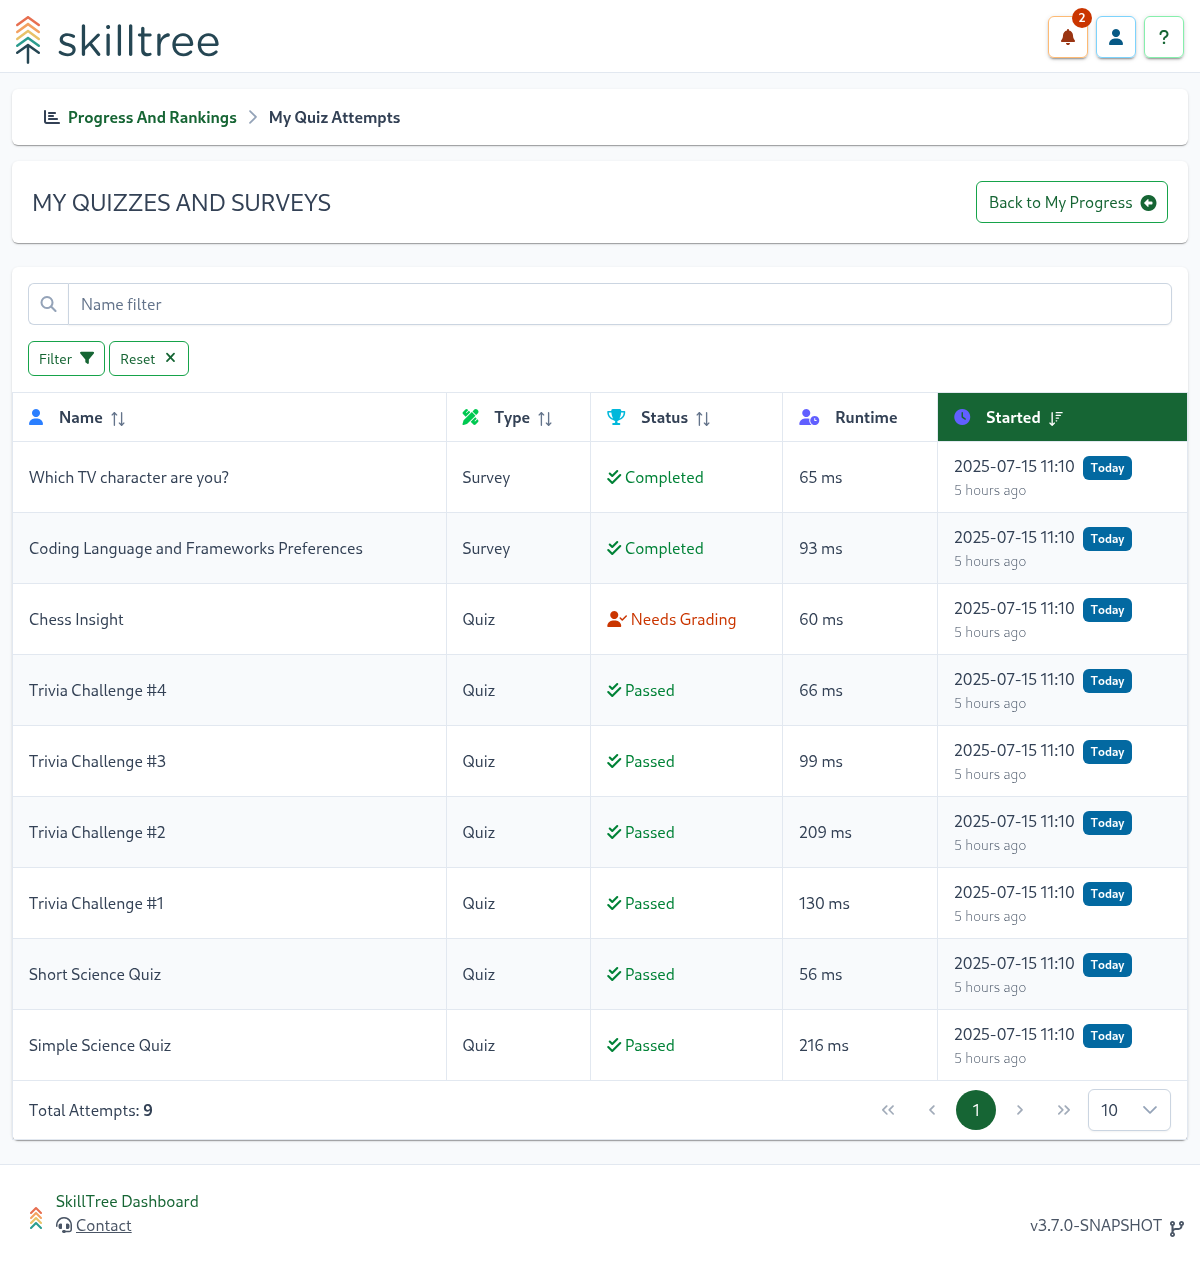
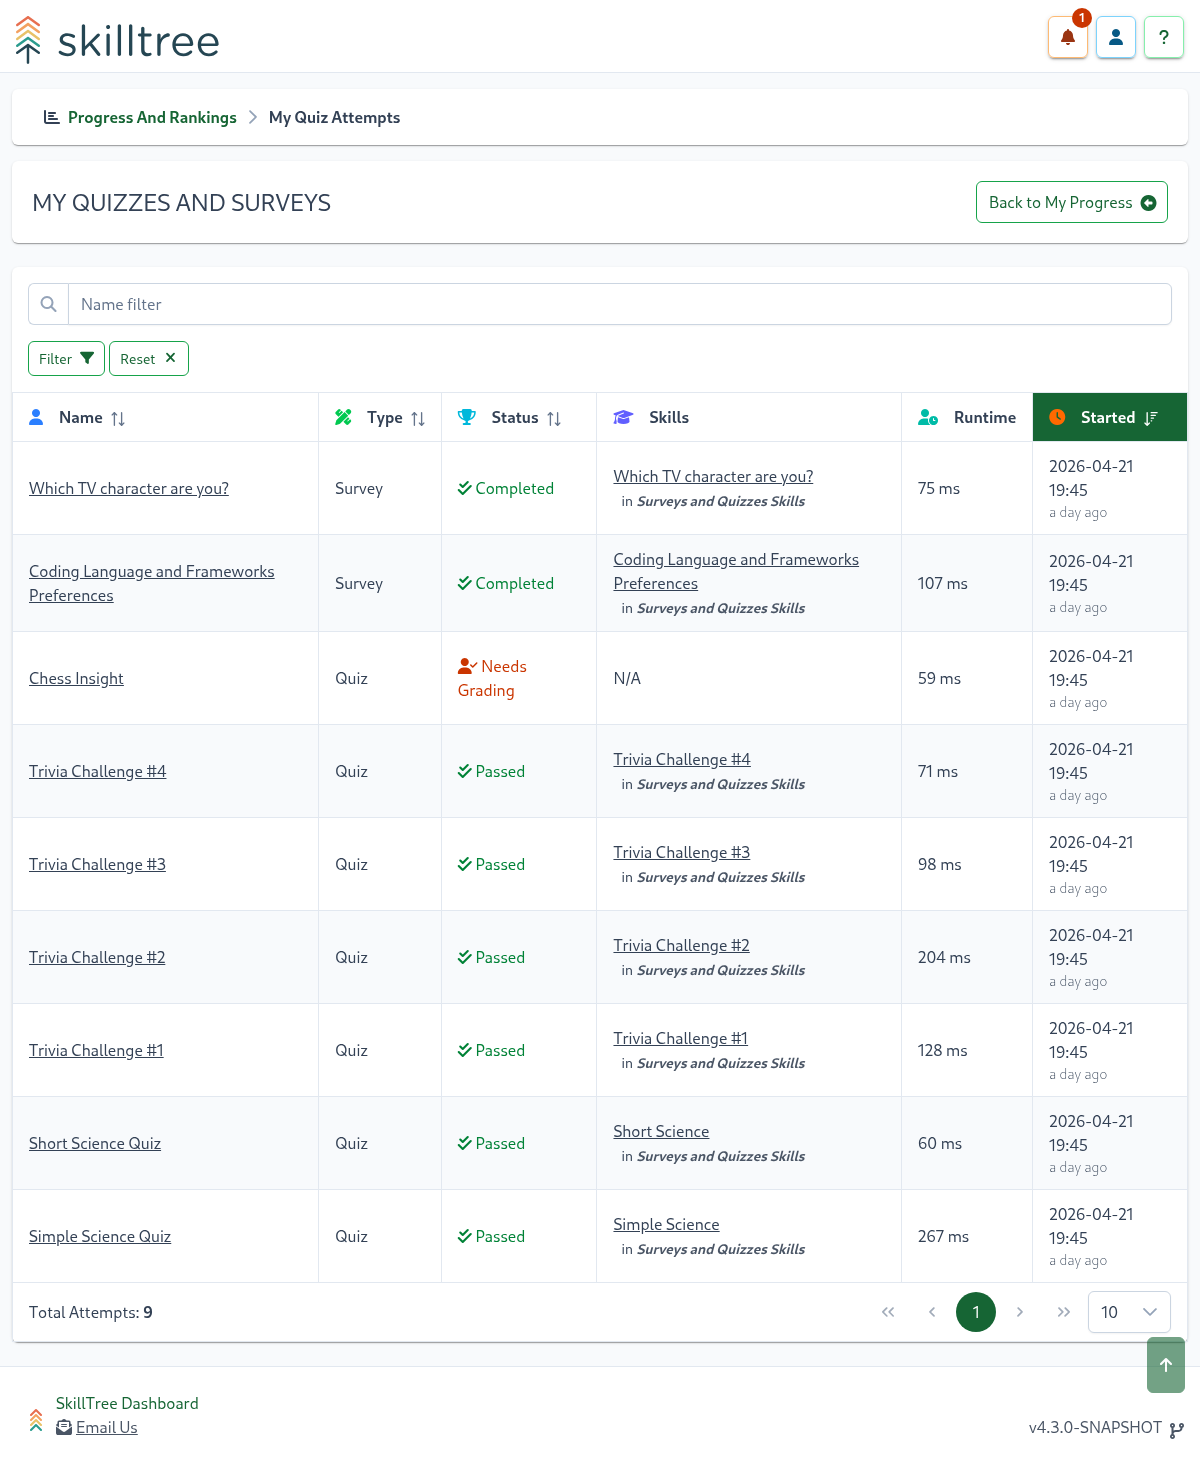
Merge pull request #344 from NationalSecurityAgency/t#341/quiz_associated_skills
#341: documented quiz experience enhancements

Pull request: #341: documented quiz experience enhancements

diff --git a/cypress/e2e/progress-and-ranking.cy.js b/cypress/e2e/progress-and-ranking.cy.js
@@ -188,7 +188,7 @@ context('Progress and Ranking: Generate Screenshots', () => {
     cy.get('[data-cy="myQuizAttemptsTable"] [data-cy="skillsBTableTotalRows"]').should('have.text', '9')
     cy.snap('page-my-quiz-attempts');
 
-    cy.get('[data-cy="myQuizAttemptsTable"] [data-p-index="0"] a').click()
+    cy.get('[data-cy="myQuizAttemptsTable"] [data-p-index="0"] [data-cy="viewQuizAttempt"]').click()
     cy.snap('page-my-quiz-single-attempt');
   })
 

diff --git a/docs/training-participation/training-portfolio.md b/docs/training-participation/training-portfolio.md
@@ -46,8 +46,16 @@ View your completed quizzes and surveys by clicking the **History** button on th
 
 ![page-my-quiz-attempts.png](../screenshots/progress-and-ranking/page-my-quiz-attempts.png)
 
+The table contains the following columns:
+- **Name**: Quiz or survey name, click on a name to view details
+- **Type**: Quiz or Survey
+- **Status**: Completion status (Passed, Failed, Needs Grading)
+- **Skills**: Associated skills earned upon completion, click on a skill to view details
+- **Runtime**: Total time taken
+- **Started**: Date and time started
+
 The **My Quizzes and Surveys** page features a searchable and sortable history table of all your passed and failed quizzes, as well as completed surveys.
-You can drill down into a quiz or survey attempt by clicking on its name.
+Click on any quiz or survey name to view detailed information about that attempt.
 
 ![page-my-quiz-single-attempt.png](../screenshots/progress-and-ranking/page-my-quiz-single-attempt.png)
 
@@ -57,6 +65,14 @@ For quizzes, the answers shown depend on the attempt's status:
 - `Passed` Quiz: all the questions and answers are shown
 - `Failed` Quiz: answers may be shown or not depending on how quiz administrator selected to configure the quiz
 - `Needs Grading` Quiz: answers are not displayed as they are not yet graded
+
+::: tip
+If a quiz attempt is in a Failed state, you can re-take the quiz by clicking the **Try Again** button.
+:::
+
+::: tip
+If a quiz is associated with one or more skills, they can be found in the Associated Skills card. Clicking on a skill will take you to its details page.
+:::
 
 ## My Badges
 